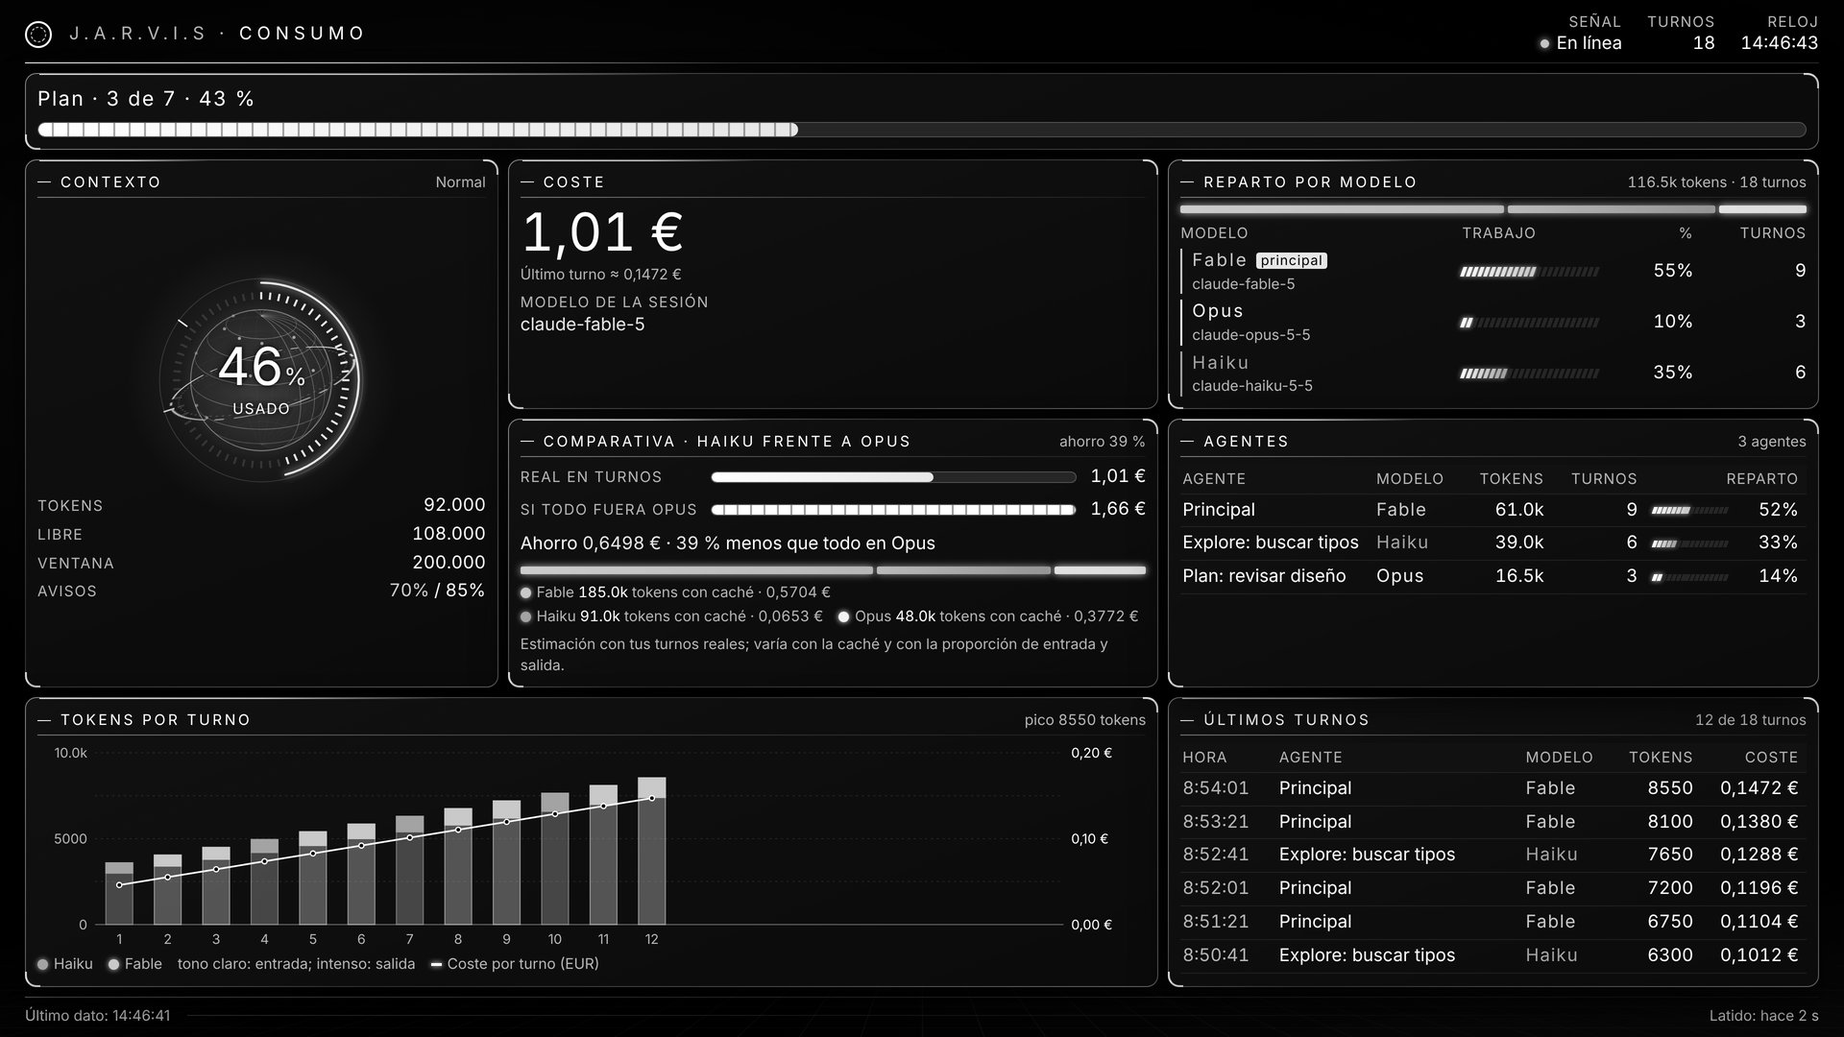
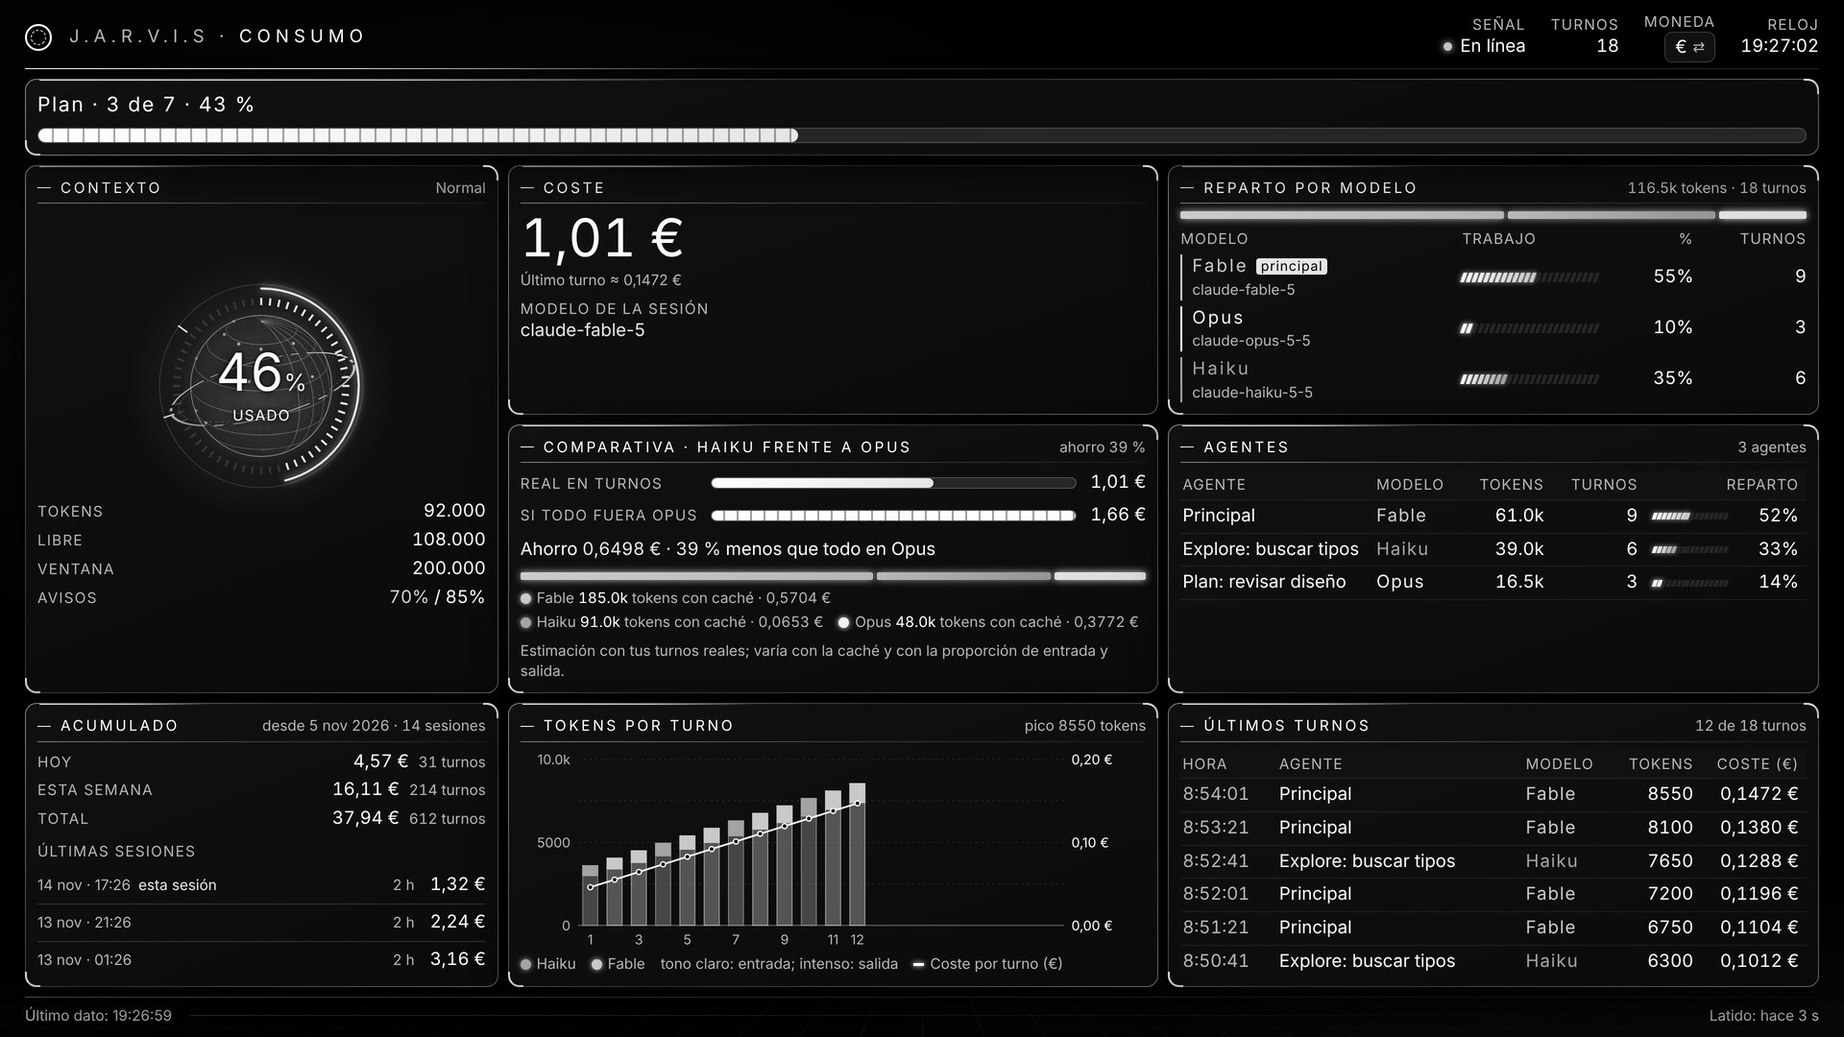
Imágenes y textos del pack 0.5.0 en estética monocroma
- Imágenes rehechas con los mismos nombres: HUD final (1920x1080, 900x600, 420x860, crítico, plan
  completo y comparativas) con el botón de moneda y el bloque Acumulado; las cuatro de la banda con la
  línea real del modo completo (modelo y contexto); /mods y /resumen con su formato actual. Blanco,
  grises y negro, texto de 4,5:1 o más y menos de 500 KB. Ejemplos de terminal y banda marcados como HTML.
- README del pack (es y en): novedades 0.5.0, insignia y versiones de la tabla; consumo con el botón
  € / US$ y las nueve disposiciones (con anclas), y la nota del modo monocromo en inglés.
- READMEs de jarvis-banda, mods-estado y resumen-sesion: pies de imagen al día.
- docs: las tres preferencias que la página guarda en localStorage.
- marketplace.json: descripción de consumo con el botón y las disposiciones.
- Versiones: portero 0.2.1, resumen-sesion 0.2.1, jarvis-banda 0.3.1, mods-estado 0.4.1 (consumo 0.10.0).

Claude-Session: https://claude.ai/code/session_01GTQ6uXB2achPbvC2MLVFVT

diff --git a/README.md b/README.md
@@ -7,7 +7,7 @@
 <p align="center">
   <a href="LICENSE"><img alt="Licencia MIT" src="https://img.shields.io/badge/licencia-MIT-333333?labelColor=111111"></a>
   <a href="https://docs.claude.com/en/docs/claude-code"><img alt="Claude Code" src="https://img.shields.io/badge/Claude%20Code-mods-333333?labelColor=111111"></a>
-  <a href="CHANGELOG.md"><img alt="Versión 0.4.0" src="https://img.shields.io/badge/versi%C3%B3n-0.4.0-333333?labelColor=111111"></a>
+  <a href="CHANGELOG.md"><img alt="Versión 0.5.0" src="https://img.shields.io/badge/versi%C3%B3n-0.5.0-333333?labelColor=111111"></a>
   <a href="CONTRIBUTING.md"><img alt="Contribuciones bienvenidas" src="https://img.shields.io/badge/contribuciones-bienvenidas-333333?labelColor=111111"></a>
 </p>
 
@@ -33,6 +33,12 @@
 <a id="es-novedades"></a>
 
 ## Novedades
+
+**Versión 0.5.0 del pack**
+
+- **consumo 0.10.0:** nueve disposiciones de los paneles (`disposicion`), con orden, tamaño de cada panel, escala, paneles ocultos y tamaño de la ventana configurables, y un botón en la cabecera para cambiar los costes entre euros y dólares (`€` / `US$`) al momento, recordado en ese navegador. Sigue con el histórico entre sesiones, los euros por defecto y el tema `monocromo` por defecto.
+- **portero 0.2.1, resumen-sesion 0.2.1, jarvis-banda 0.3.1 y mods-estado 0.4.1:** repaso interno del código, sin cambios de comportamiento ni de opciones.
+- Imágenes rehechas en la misma estética monocroma: HUD con el botón de moneda y el bloque Acumulado, la banda con modelo y contexto, y las salidas actuales de `/mods` y `/resumen`.
 
 **Versión 0.4.0 del pack**
 
@@ -62,11 +68,11 @@ Todos los cambios en [CHANGELOG.md](CHANGELOG.md).
 
 | Mod | Qué hace | Imagen |
 |---|---|---|
-| **[portero](portero/)**<br><sub>v0.2.0</sub> | Mira cada petición y decide quién la hace, por capas de reglas. Lo ligero, el modelo de la sesión. Lo pesado, un subagente Opus. `/portero` enseña el reparto. | <img src="images/portero-diagrama.png" alt="portero" width="280"> |
-| **[resumen-sesion](resumen-sesion/)**<br><sub>v0.2.0</sub> | Si vuelves tras 2 horas sin escribir, o con `/resumen`, Haiku escribe un resumen de traspaso en secciones para seguir en una sesión nueva. `/resumen-ver` muestra el último. | <img src="images/resumen-terminal.png" alt="resumen-sesion" width="280"> |
-| **[consumo](consumo/)**<br><sub>v0.8.0</sub> | Ventana HUD en directo, monocroma por defecto: barra del plan, contexto usado, coste en euros, tokens por agente y por modelo, comparativa Haiku frente a Opus y acumulado entre sesiones. `/jarvis` la abre o la cierra. | <img src="images/consumo-900x600.png" alt="consumo" width="280"> |
-| **[jarvis-banda](jarvis-banda/)**<br><sub>v0.3.0</sub> | Una línea monocroma encima del prompt con el estado en vivo (esperando, procesando, pensando, ejecutando, delegando, permiso o error), el modelo y el contexto. `/banda` cambia idioma y modo. | <img src="images/banda-delegando.png" alt="jarvis-banda" width="280"> |
-| **[mods-estado](mods-estado/)**<br><sub>v0.4.0</sub> | Comando `/mods`: diagnóstico del pack (estado, versión instalada y de tu copia local, fallos de carga). `/mods on` y `/mods off` activan o desactivan un mod; `/mods actualizar` da los comandos para actualizar. | <img src="images/mods-terminal.png" alt="mods-estado" width="280"> |
+| **[portero](portero/)**<br><sub>v0.2.1</sub> | Mira cada petición y decide quién la hace, por capas de reglas. Lo ligero, el modelo de la sesión. Lo pesado, un subagente Opus. `/portero` enseña el reparto. | <img src="images/portero-diagrama.png" alt="portero" width="280"> |
+| **[resumen-sesion](resumen-sesion/)**<br><sub>v0.2.1</sub> | Si vuelves tras 2 horas sin escribir, o con `/resumen`, Haiku escribe un resumen de traspaso en secciones para seguir en una sesión nueva. `/resumen-ver` muestra el último. | <img src="images/resumen-terminal.png" alt="resumen-sesion" width="280"> |
+| **[consumo](consumo/)**<br><sub>v0.10.0</sub> | Ventana HUD en directo, monocroma por defecto: barra del plan, contexto usado, coste en euros (un botón cambia a dólares), tokens por agente y por modelo, comparativa Haiku frente a Opus, acumulado entre sesiones y nueve disposiciones. `/jarvis` la abre o la cierra. | <img src="images/consumo-900x600.png" alt="consumo" width="280"> |
+| **[jarvis-banda](jarvis-banda/)**<br><sub>v0.3.1</sub> | Una línea monocroma encima del prompt con el estado en vivo (esperando, procesando, pensando, ejecutando, delegando, permiso o error), el modelo y el contexto. `/banda` cambia idioma y modo. | <img src="images/banda-delegando.png" alt="jarvis-banda" width="280"> |
+| **[mods-estado](mods-estado/)**<br><sub>v0.4.1</sub> | Comando `/mods`: diagnóstico del pack (estado, versión instalada y de tu copia local, fallos de carga). `/mods on` y `/mods off` activan o desactivan un mod; `/mods actualizar` da los comandos para actualizar. | <img src="images/mods-terminal.png" alt="mods-estado" width="280"> |
 
 Cada mod es independiente. Instala solo los que quieras.
 
@@ -240,6 +246,12 @@ MIT © deriva1945-ui. Ver [LICENSE](LICENSE). Cada mod lleva también su propio 
 
 ## What's new
 
+**Pack version 0.5.0**
+
+- **consumo 0.10.0:** nine panel layouts (`disposicion`), with configurable order, size of each panel, scale, hidden panels and window size, and a header button that switches costs between euros and dollars (`€` / `US$`) at once, remembered in that browser. History across sessions, euros by default and the `monocromo` default theme stay.
+- **portero 0.2.1, resumen-sesion 0.2.1, jarvis-banda 0.3.1 and mods-estado 0.4.1:** internal code tidy-up, with no change in behaviour or options.
+- Images redone in the same monochrome look: the HUD with the currency button and the Accumulated block, the band with model and context, and the current `/mods` and `/resumen` output.
+
 **Pack version 0.4.0**
 
 The whole pack moves to a monochrome look (white, greys and black), images included.
@@ -268,11 +280,11 @@ Every change is in [CHANGELOG.md](CHANGELOG.md).
 
 | Mod | What it does | Image |
 |---|---|---|
-| **[portero](portero/)**<br><sub>v0.2.0</sub> | Looks at each request and decides who handles it, through layers of rules. Light work: the session model. Heavy work: an Opus subagent. `/portero` shows the split. | <img src="images/portero-diagrama.png" alt="portero" width="280"> |
-| **[resumen-sesion](resumen-sesion/)**<br><sub>v0.2.0</sub> | When you come back after 2 hours without typing, or with `/resumen`, Haiku writes a handover summary in sections so you can continue in a new session. `/resumen-ver` shows the last one. | <img src="images/resumen-terminal.png" alt="resumen-sesion" width="280"> |
-| **[consumo](consumo/)**<br><sub>v0.8.0</sub> | Live HUD window, monochrome by default: plan bar, context used, cost in euros, tokens per agent and per model, a Haiku versus Opus comparison and totals across sessions. `/jarvis` opens or closes it. | <img src="images/consumo-900x600.png" alt="consumo" width="280"> |
-| **[jarvis-banda](jarvis-banda/)**<br><sub>v0.3.0</sub> | One monochrome line above the prompt with the live state (waiting, processing, thinking, running a tool, delegating, permission or error), the model and the context. `/banda` changes language and mode. | <img src="images/banda-delegando.png" alt="jarvis-banda" width="280"> |
-| **[mods-estado](mods-estado/)**<br><sub>v0.4.0</sub> | `/mods` command: a pack check-up (state, installed and local copy version, load failures). `/mods on` and `/mods off` enable or disable a mod; `/mods update` gives the commands to update. | <img src="images/mods-terminal.png" alt="mods-estado" width="280"> |
+| **[portero](portero/)**<br><sub>v0.2.1</sub> | Looks at each request and decides who handles it, through layers of rules. Light work: the session model. Heavy work: an Opus subagent. `/portero` shows the split. | <img src="images/portero-diagrama.png" alt="portero" width="280"> |
+| **[resumen-sesion](resumen-sesion/)**<br><sub>v0.2.1</sub> | When you come back after 2 hours without typing, or with `/resumen`, Haiku writes a handover summary in sections so you can continue in a new session. `/resumen-ver` shows the last one. | <img src="images/resumen-terminal.png" alt="resumen-sesion" width="280"> |
+| **[consumo](consumo/)**<br><sub>v0.10.0</sub> | Live HUD window, monochrome by default: plan bar, context used, cost in euros (a button switches to dollars), tokens per agent and per model, a Haiku versus Opus comparison, totals across sessions and nine layouts. `/jarvis` opens or closes it. | <img src="images/consumo-900x600.png" alt="consumo" width="280"> |
+| **[jarvis-banda](jarvis-banda/)**<br><sub>v0.3.1</sub> | One monochrome line above the prompt with the live state (waiting, processing, thinking, running a tool, delegating, permission or error), the model and the context. `/banda` changes language and mode. | <img src="images/banda-delegando.png" alt="jarvis-banda" width="280"> |
+| **[mods-estado](mods-estado/)**<br><sub>v0.4.1</sub> | `/mods` command: a pack check-up (state, installed and local copy version, load failures). `/mods on` and `/mods off` enable or disable a mod; `/mods update` gives the commands to update. | <img src="images/mods-terminal.png" alt="mods-estado" width="280"> |
 
 Each mod works on its own. Install only the ones you want.
 

diff --git a/consumo/README.md b/consumo/README.md
@@ -17,6 +17,8 @@ Abre una ventana HUD en directo con lo que gasta la sesión: contexto, coste y t
 - **Comparativa Haiku frente a Opus:** lo que costó la sesión y lo que habría costado si el trabajo enviado a Haiku hubiera ido a Opus, con el coste por token de tus propios turnos. Muestra el ahorro en la moneda del HUD (euros por defecto) y en %. Necesita más de 1000 tokens de cada modelo; si no, pone "sin datos de Opus todavía" (o de Haiku) y no estima nada.
 - **Acumulado entre sesiones:** guarda el consumo en `historico.json` y muestra el total desde el primer uso, el de hoy, el de esta semana y las últimas sesiones con su coste y su duración. Cerrar Claude Code no lo borra (ver [Histórico entre sesiones](#es-historico)).
 - **Comando `/jarvis`:** abre el HUD si está cerrado y lo cierra si está abierto.
+- **Botón de moneda** en la cabecera (`€` / `US$`): cambia todos los costes entre euros y dólares al momento y se recuerda en ese navegador (ver [Moneda y tipo de cambio](#es-moneda)).
+- **Nueve disposiciones** de los paneles, con orden, tamaño de cada panel, escala, paneles ocultos y tamaño de la ventana configurables (ver [Disposición, orden y tamaño de la ventana](#es-disposicion)).
 - Avisa cuando el contexto pasa del **70 %** y del **85 %**: por encima del 85 % el HUD entero pasa a rojo de alerta (en `monocromo`, sin color: alerta invertida y doble borde).
 - Si pasan 10 segundos sin latido nuevo **y** van 3 lecturas seguidas sin él, marca "Sin señal". Una lectura fallida suelta no enciende el aviso, y el primer latido nuevo lo apaga.
 - No parpadea: pinta los paneles una vez y después solo cambia los textos y barras que cambian. Si solo llega el latido, no toca nada.
@@ -25,7 +27,7 @@ Abre una ventana HUD en directo con lo que gasta la sesión: contexto, coste y t
 - Respeta la preferencia del sistema de reducir el movimiento: el globo y el anillo se quedan quietos, nada se anima y las cifras cambian sin deslizarse. Los datos se leen igual.
 - Accesible: texto de 14 px como mínimo, contraste de 4,5:1 o más en los temas `natural` y `monocromo` y foco visible al moverse con el teclado.
 
-Se adapta al tamaño de la ventana (cada panel se ajusta además por dentro según su propio ancho):
+Con la disposición `auto` (la de por defecto) se adapta al tamaño de la ventana (cada panel se ajusta además por dentro según su propio ancho):
 
 | Ancho | Diseño |
 |---|---|
@@ -224,6 +226,8 @@ También aparecen en `/config` dentro de Claude Code. Si cargas el mod con `--pl
 }
 ```
 
+<a id="es-disposicion"></a>
+
 ## Disposición, orden y tamaño de la ventana
 
 Seis opciones más deciden dónde va cada panel. Las cinco primeras van a `datos.js` en el campo `vista` (ya validadas) y la página las aplica sin recargar: solo cambia atributos (`data-disposicion` en `<html>`, `data-puesto`, `data-zona` y `data-tam` en cada panel) y CSS. El orden de los paneles en el HTML no cambia, la lectura de datos sigue igual (sin parpadeo) y el tema, el acento, el idioma, la densidad automática, el movimiento reducido y el globo 3D funcionan con todas las disposiciones.
@@ -326,7 +330,9 @@ Opens a live HUD window with what the session spends: context, cost and tokens. 
 - **Haiku versus Opus comparison:** what the session cost and what it would have cost if the work sent to Haiku had gone to Opus, using the cost per token of your own turns. It shows the saving in the HUD currency (euros by default) and %. It needs more than 1000 tokens from each model; otherwise it shows "sin datos de Opus todavía" (no Opus data yet, or Haiku) and estimates nothing.
 - **Accumulated across sessions:** saves usage in `historico.json` and shows the total since first use, today, this week and the latest sessions with their cost and length. Closing Claude Code does not erase it (see [History across sessions](#en-history)).
 - **`/jarvis` command:** opens the HUD when it is closed and closes it when it is open.
-- It warns when context goes over **70 %** and **85 %**: above 85 % the whole HUD turns alert red.
+- **Currency button** in the header (`€` / `US$`): switches every cost between euros and dollars at once and is remembered in that browser (see [Currency and exchange rate](#en-currency)).
+- **Nine panel layouts**, with configurable order, size of each panel, scale, hidden panels and window size (see [Layout, order and window size](#en-layout)).
+- It warns when context goes over **70 %** and **85 %**: above 85 % the whole HUD turns alert red (in `monocromo`, with no colour: an inverted alert and a double border).
 - After 10 seconds without a new heartbeat **and** 3 reads in a row without one, it shows "Sin señal" (no signal). A single failed read does not trigger it, and the first new heartbeat clears it.
 - No flicker: it draws the panels once and then only changes the text and bars that change. If only the heartbeat arrives, it touches nothing.
 - It works offline: everything is inside the page.
@@ -334,7 +340,7 @@ Opens a live HUD window with what the session spends: context, cost and tokens. 
 - It honours the system setting to reduce motion: the globe and ring stay still, nothing animates and numbers change without sliding. Data is read the same way.
 - Accessible: text is at least 14 px, contrast is 4.5:1 or more in the `natural` and `monocromo` themes and focus is visible when moving with the keyboard.
 
-It adapts to the window size (and each panel also adjusts inside to its own width):
+With the `auto` layout (the default) it adapts to the window size (and each panel also adjusts inside to its own width):
 
 | Width | Layout |
 |---|---|
@@ -532,6 +538,8 @@ They also show up in `/config` inside Claude Code. If you load the mod with `--p
   }
 }
 ```
+
+<a id="en-layout"></a>
 
 ## Layout, order and window size
 

diff --git a/jarvis-banda/README.md b/jarvis-banda/README.md
@@ -12,7 +12,7 @@ Dibuja una línea estilo J.A.R.V.I.S. encima del prompt con el estado en vivo de
 
 ![jarvis-banda delegando](../images/banda-delegando.png)
 
-*Aproximación en HTML de la versión 0.2.0, no es la salida real de la terminal.*
+*Aproximación en HTML de la línea en modo completo con los colores por defecto, no es la salida real de la terminal.*
 
 ## Qué muestra
 
@@ -129,6 +129,7 @@ O cárgalo con `--plugin-dir` (ver el [README principal](../README.md#es-cargar)
 
 ## Cambios
 
+- **0.3.1:** repaso interno del código, sin cambios de comportamiento ni de opciones.
 - **0.3.0:** estados pensando, esperando permiso y error; modelo y contexto en la misma línea; pulso al cambiar; `userConfig` (idioma, modo, colores, modelo, contexto, animación); comando `/banda`; textos en inglés.
 - **0.2.0:** una sola línea con esperando, procesando, ejecutando y delegando.
 
@@ -152,7 +153,7 @@ Draws one J.A.R.V.I.S.-style line above the prompt with the session's live state
 
 ![jarvis-banda delegating](../images/banda-delegando.png)
 
-*HTML approximation of version 0.2.0, not the real terminal output.*
+*HTML approximation of the line in full mode with the default colours, not the real terminal output.*
 
 ## What it shows
 
@@ -269,6 +270,7 @@ Or load it with `--plugin-dir` (see the [main README](../README.md#en-load)).
 
 ## Changes
 
+- **0.3.1:** internal code tidy-up, with no change in behaviour or options.
 - **0.3.0:** thinking, awaiting-permission and error states; model and context on the same line; pulse on change; `userConfig` (language, mode, colors, model, context, animation); `/banda` command; English labels.
 - **0.2.0:** one line with waiting, processing, running and delegating.
 

diff --git a/docs/como-funciona.md b/docs/como-funciona.md
@@ -30,6 +30,6 @@ Los cinco mods siguen el mismo camino: **eventos → hooks → datos → pantall
 - **No rompen la sesión.** Si un mod falla, deja pasar el evento sin cambios.
 - **Solo escuchan lo que necesitan.** Un mod no ve los eventos que no pide.
 - **No guardan tu conversación entera.** Solo escriben en disco tres mods, cada uno en su carpeta de datos (opción `dataDir`):
-  - `consumo` (`~/CLAUDE/consumo`): la página, `datos.js` (números, nombres de modelo, la descripción corta de cada subagente y los títulos de tareas del plan), `estado.json` / `estado.js` (si el HUD está abierto) e `historico.json` (solo cifras y nombres de modelos y de tipos de agente, nunca el texto de las peticiones).
+  - `consumo` (`~/CLAUDE/consumo`): la página, `datos.js` (números, nombres de modelo, la descripción corta de cada subagente y los títulos de tareas del plan), `estado.json` / `estado.js` (si el HUD está abierto) e `historico.json` (solo cifras y nombres de modelos y de tipos de agente, nunca el texto de las peticiones). La página guarda además en el navegador (localStorage) solo tres preferencias de vista: la moneda elegida con el botón, y si la lista del plan y la de foco están abiertas.
   - `portero` (`~/CLAUDE/portero`): `decisiones.jsonl`, con la ruta, la capa, el motivo y el texto de la petición recortado y con los secretos evidentes tapados. Se apaga con `logEnabled`.
   - `resumen-sesion` (`~/CLAUDE/resumen-sesion`): `ultimo-resumen.md`, el último resumen de traspaso.

diff --git a/docs/how-it-works.md b/docs/how-it-works.md
@@ -30,6 +30,6 @@ All five mods follow the same path: **events → hooks → data → screen**.
 - **They do not break the session.** If a mod fails, it lets the event through unchanged.
 - **They only listen to what they need.** A mod does not see events it does not ask for.
 - **They do not store your whole conversation.** Only three mods write to disk, each in its own data folder (`dataDir` option):
-  - `consumo` (`~/CLAUDE/consumo`): the page, `datos.js` (numbers, model names, each subagent's short description and plan task titles), `estado.json` / `estado.js` (whether the HUD is open) and `historico.json` (only figures and model and agent-type names, never prompt text).
+  - `consumo` (`~/CLAUDE/consumo`): the page, `datos.js` (numbers, model names, each subagent's short description and plan task titles), `estado.json` / `estado.js` (whether the HUD is open) and `historico.json` (only figures and model and agent-type names, never prompt text). The page also keeps three view preferences in the browser (localStorage): the currency picked with the button, and whether the plan list and the foco list are open.
   - `portero` (`~/CLAUDE/portero`): `decisiones.jsonl`, with the route, layer, reason and the request text cut short with obvious secrets masked. Turn it off with `logEnabled`.
   - `resumen-sesion` (`~/CLAUDE/resumen-sesion`): `ultimo-resumen.md`, the last handover summary.

diff --git a/mods-estado/README.md b/mods-estado/README.md
@@ -8,7 +8,7 @@ Añade el comando `/mods`: un diagnóstico del pack `jarvis-essential-pack`. Por
 
 ![Salida de /mods](../images/mods-terminal.png)
 
-*Ejemplo en HTML de una versión anterior, no es una captura real.*
+*Ejemplo en HTML con el formato actual de `/mods`, no es una captura real.*
 
 ## Subcomandos
 
@@ -138,7 +138,7 @@ Set the `idioma` option to `en` for English output.
 
 ![/mods output](../images/mods-terminal.png)
 
-*HTML example of an earlier version, not a real screenshot.*
+*HTML example with the current `/mods` format (Spanish output), not a real screenshot.*
 
 ## Subcommands
 

diff --git a/resumen-sesion/README.md b/resumen-sesion/README.md
@@ -8,7 +8,7 @@ Resumen de traspaso de tu sesión, para retomarla en una sesión nueva sin arras
 
 ![Ejemplo de resumen-sesion](../images/resumen-terminal.png)
 
-*Ejemplo en HTML, no es una captura real.*
+*Ejemplo en HTML de la salida de `/resumen`, no es una captura real.*
 
 ## Qué hace
 
@@ -120,7 +120,7 @@ A handover summary of your session, so you can pick it up in a new session witho
 
 ![resumen-sesion example](../images/resumen-terminal.png)
 
-*HTML example, not a real screenshot.*
+*HTML example of the `/resumen` output (Spanish), not a real screenshot.*
 
 ## What it does
 
